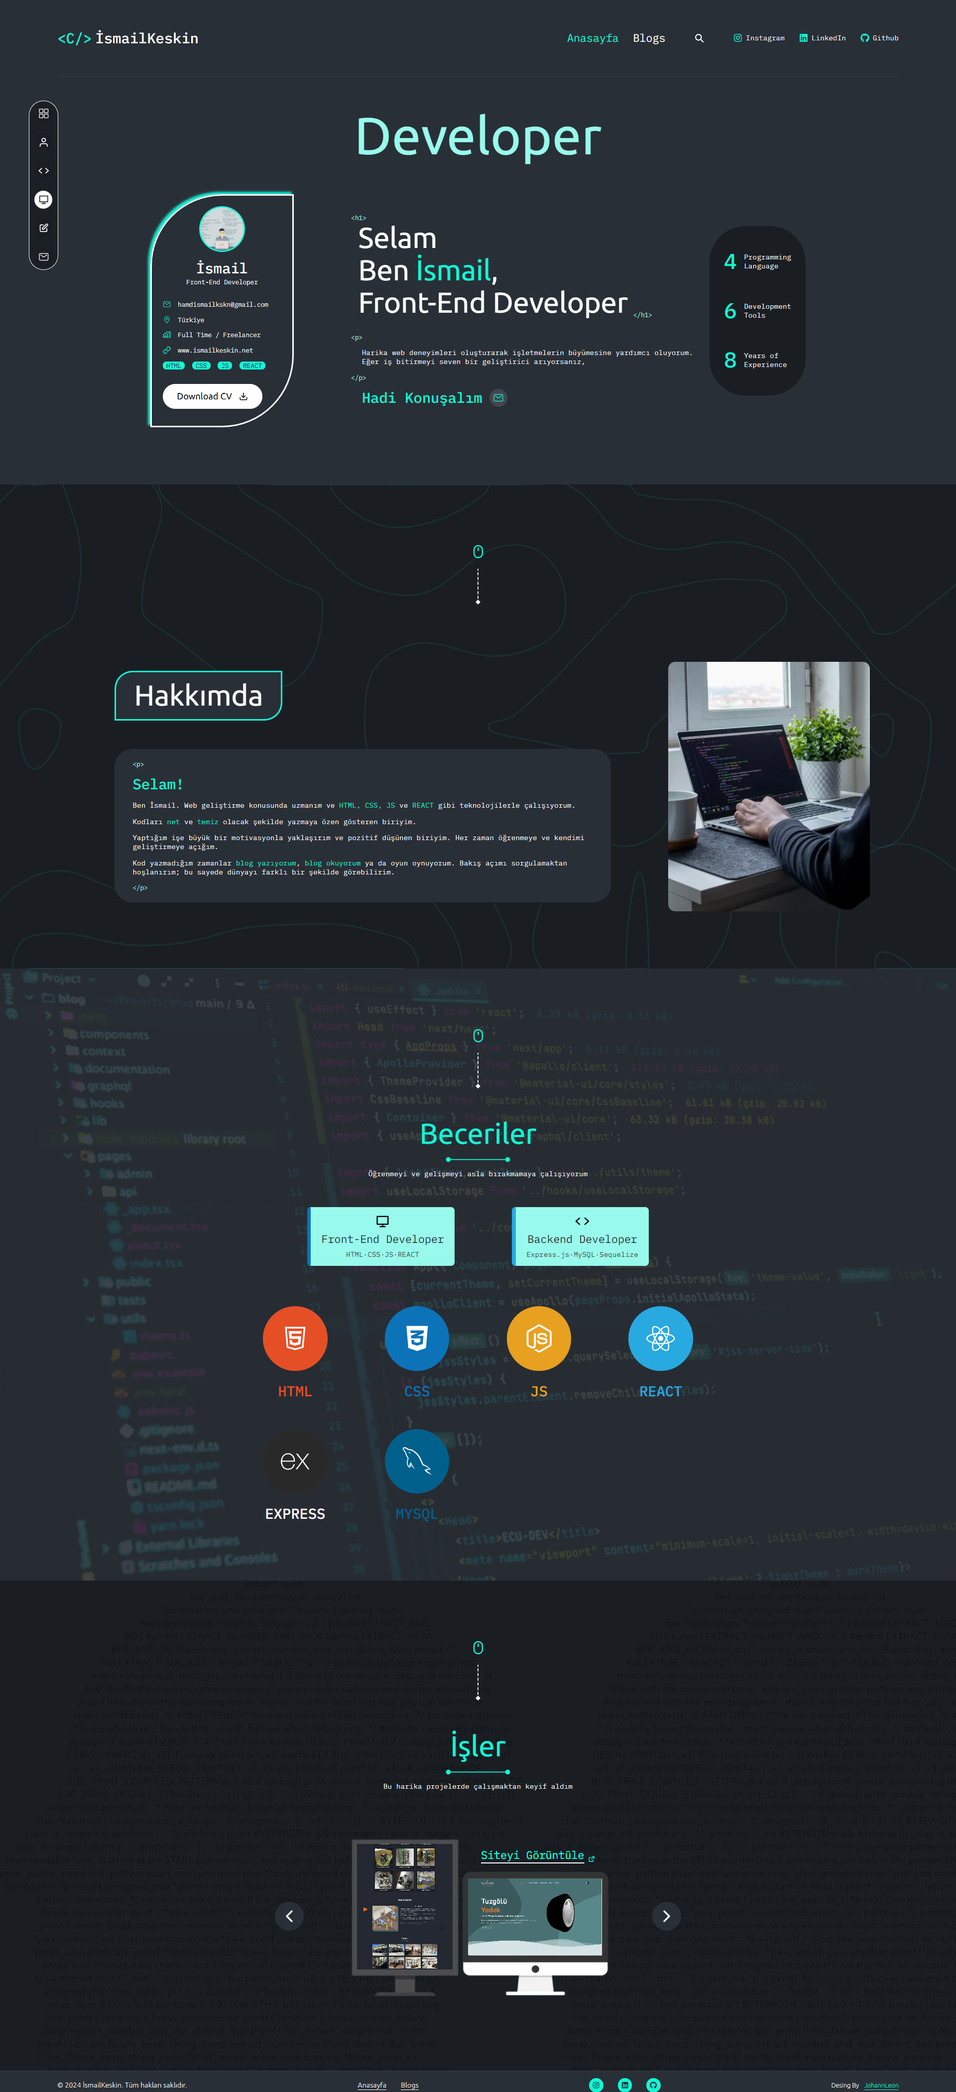
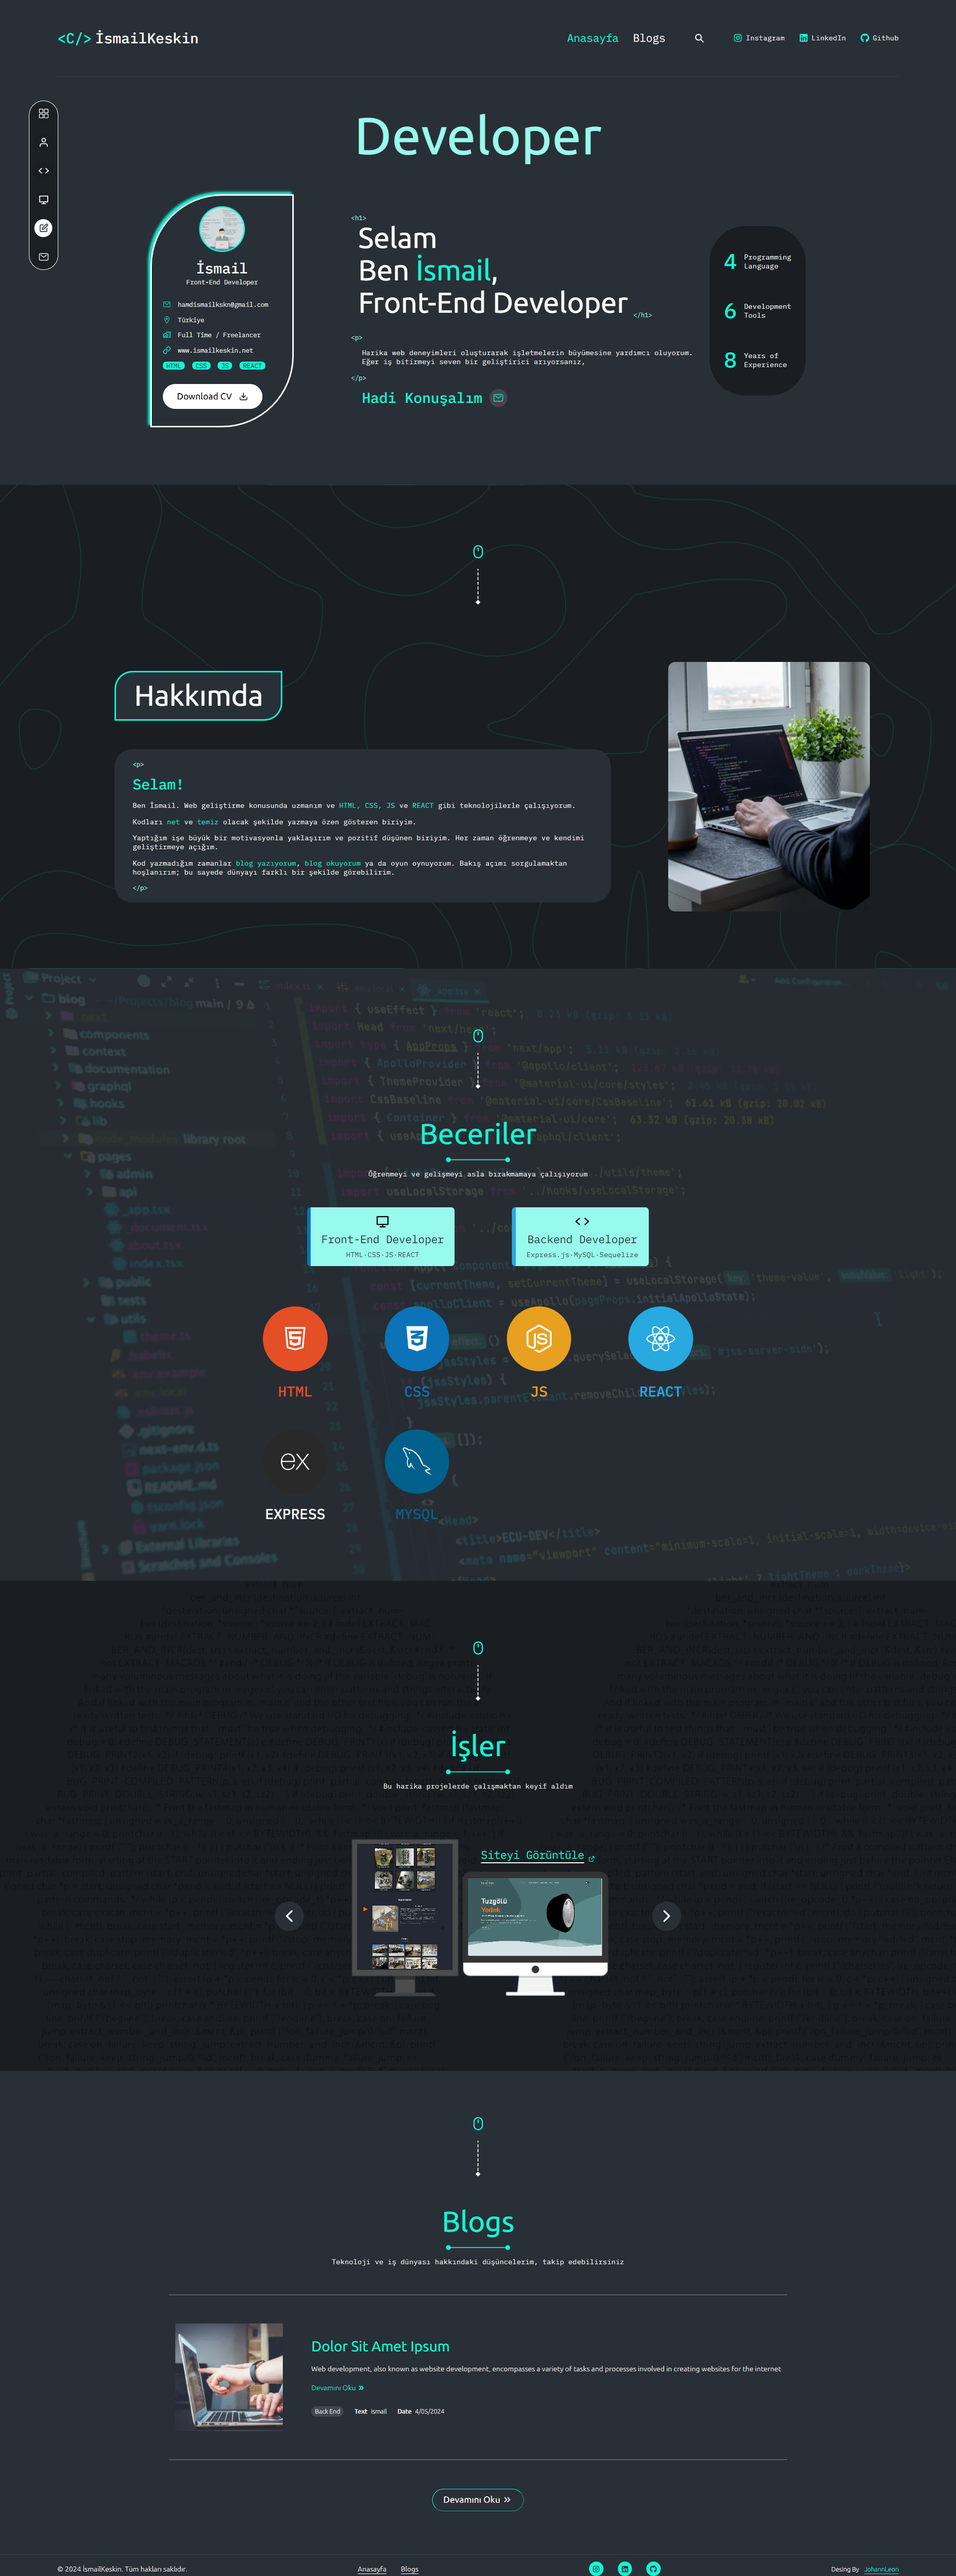
frontend: contact.tsx tasarımı yapıldı.

diff --git a/frontend/src/components/contact/index.tsx b/frontend/src/components/contact/index.tsx
@@ -1,0 +1,79 @@
+"use client";
+import React from "react";
+import ModuleTitle from "../moduleTitle";
+import SolidButton from "../buttons/SolidButton";
+
+const Contact = () => {
+  const sendMessage = () => {
+    console.log("send message");
+  };
+
+  return (
+    <section id="iletisim" className="w-full h-min bg-BG2">
+      <main className="flex flex-col items-center gap-16 lg:gap-[102px] px-6 py-16 md:py-8 xl:py-16">
+        <ModuleTitle
+          isHome={true}
+          title="İletişim"
+          description="Şu anda freelance çalışmaya uygunum"
+        />
+        <div className="w-full flex flex-col items-center gap-16">
+          <div
+            id="formTitle"
+            className="border-4 border-solid border-Brand1 rounded-tl-[40px] rounded-br-[40px] px-10 py-4 text-Brand1 w-min h-min"
+          >
+            <h2 className="menu-m lg:logo-m whitespace-nowrap">Bana Mesaj Gönder</h2>
+          </div>
+          <form className="w-full flex flex-col items-center px-6 md:px-16 xl:px-[400px] gap-16">
+            <div className="w-full grid grid-cols-1 grid-rows-3 lg:grid-cols-2 lg:grid-rows-2 gap-16 lx:gap-x-32 lg:gap-y-16">
+              <div className="flex flex-col gap-6">
+                <label htmlFor="name" className="text-Brand1 para-u">
+                  Adınız *
+                </label>
+                <input
+                  type="text"
+                  name="name"
+                  id="name"
+                  className="border-t-0 border-l-0 border-r-0 border-b border-solid border-Brand2 outline-none py-2 bg-[#ffffff00] text-White para-u placeholder-White"
+                  placeholder="Adınızı Giriniz"
+                />
+              </div>
+              <div className="flex flex-col gap-6">
+                <label htmlFor="email" className="text-Brand1 para-u">
+                  Email Adresiniz *
+                </label>
+                <input
+                  type="text"
+                  name="email"
+                  id="email"
+                  className="border-t-0 border-l-0 border-r-0 border-b border-solid border-Brand2 outline-none py-2 bg-[#ffffff00] text-Whit para-u placeholder-White"
+                  placeholder="Email Adresinizi Giriniz"
+                />
+              </div>
+              <div className="flex flex-col gap-6">
+                <label htmlFor="message" className="text-Brand1 para-u">
+                  Mesajınız *
+                </label>
+                <input
+                  type="text"
+                  name="message"
+                  id="message"
+                  className="border-t-0 border-l-0 border-r-0 border-b border-solid border-Brand2 outline-none py-2 bg-[#ffffff00] text-White para-u placeholder-White"
+                  placeholder="Mesajınızı Giriniz"
+                />
+              </div>
+            </div>
+            <SolidButton
+              bgColor="bg-Brand1"
+              border={false}
+              textColor="text-BG1"
+              buttonText="Mesaj Gönder"
+              buttonFc={sendMessage}
+            />
+          </form>
+        </div>
+      </main>
+    </section>
+  );
+};
+
+export default Contact;

diff --git a/frontend/src/components/buttons/SolidButton.tsx b/frontend/src/components/buttons/SolidButton.tsx
@@ -1,6 +1,6 @@
 "use client";
 import React from "react";
-import { MdKeyboardDoubleArrowRight } from "react-icons/md";
+import { TbSend } from "react-icons/tb";
 
 type Props = {
   bgColor: "bg-Brand1" | "bg-White" | "bg-BG1";
@@ -18,11 +18,11 @@ const SolidButton: React.FC<Props> = ({ bgColor, textColor, border, buttonText, 
   return (
     <button
       onClick={handleClick}
-      className={`flex items-center gap-1 py-3 px-6 rounded-[32px] button-u cursor-pointer hover:opacity-80 transition-opacity ${bgColor} ${textColor} ${
+      className={`flex items-center gap-3 py-3 px-6 rounded-[32px] button-u cursor-pointer hover:opacity-80 transition-opacity ${bgColor} ${textColor} ${
         border ? "border-2 border-Brand1" : "border-none"
       }`}
     >
-      {buttonText} <MdKeyboardDoubleArrowRight className="w-[24px] h-[24px]" />
+      {buttonText} <TbSend className="w-[24px] h-[24px]" />
     </button>
   );
 };

diff --git a/frontend/src/components/footer/index.tsx b/frontend/src/components/footer/index.tsx
@@ -6,7 +6,7 @@ import FooterMedia from "./FooterMedia";
 
 const Footer = () => {
   return (
-    <footer className="w-full flex-col flex items-center gap-6 lg:gap-4 text-White">
+    <footer className="w-full flex-col flex items-center gap-6 lg:gap-4 text-White pb-8 lg:pb-4">
       <div className="w-full h-[1px] bg-Grey/70"></div>
       <main className="w-full px-6 lg:px-32 flex items-center para-u gap-6 lg:gap-0 flex-col lg:flex-row justify-start lg:justify-between">
         <div className="order-2 lg:order-1 flex-grow flex items-center justify-between flex-col sm:flex-row gap-6 sm:gap-16 lg:gap-0">

diff --git a/frontend/src/containers/homeContainer/index.tsx b/frontend/src/containers/homeContainer/index.tsx
@@ -11,6 +11,7 @@ import Content from "@/components/blog/blogColumn/Content";
 import type { Blog } from "@/components/blog/blogColumn/Content";
 import HomeBlog from "@/components/homeBlog";
 import ModuleTitle from "@/components/moduleTitle";
+import Contact from "@/components/contact";
 
 const HomeContainer = async ({ blog }: { blog: Blog }) => {
   return (
@@ -40,6 +41,7 @@ const HomeContainer = async ({ blog }: { blog: Blog }) => {
           />
         </BlogColumn>
       </HomeBlog>
+      <Contact />
     </>
   );
 };

diff --git a/frontend/src/components/hero/index.tsx b/frontend/src/components/hero/index.tsx
@@ -5,7 +5,7 @@ const Hero = ({ children }: { children: React.ReactNode }) => {
   return (
     <section
       id="anasayfa"
-      className="w-full h-min flex flex-col items-center gap-16 px-0 lg:px-32 pb-16 pt-16 md:pb-32"
+      className="w-full h-min flex flex-col items-center gap-16 px-0 lg:px-32 pt-16 pb-16 md:pb-32"
     >
       <h1 className="bg-text-u text-Brand2 hidden md:block">Developer</h1>
       <main className="flex items-center flex-col xl:flex-row gap-16 sm:gap-32 px-6 md:px-16 xl:px-32">

diff --git a/frontend/src/components/contact/ContactTitle.tsx b/frontend/src/components/contact/ContactTitle.tsx
@@ -1,0 +1,14 @@
+import React from "react";
+
+const ContactTitle = () => {
+  return (
+    <div
+      id="formTitle"
+      className="border-4 border-solid border-Brand1 rounded-tl-[40px] rounded-br-[40px] px-10 py-4 text-Brand1 w-min h-min"
+    >
+      <h2 className="logo-m whitespace-nowrap">Bana Mesaj Gönder</h2>
+    </div>
+  );
+};
+
+export default ContactTitle;

diff --git a/frontend/src/components/about/AboutTitle.tsx b/frontend/src/components/about/AboutTitle.tsx
@@ -6,7 +6,7 @@ const AboutTitle = () => {
       id="aboutTitle"
       className="border-4 border-solid border-Brand1 rounded-tl-[40px] rounded-br-[40px] px-10 py-4 text-White w-min h-min bg-BG1"
     >
-      <h1 className="h2-u sm:h1-u">Hakkımda</h1>
+      <h2 className="h2-u sm:h1-u">Hakkımda</h2>
     </div>
   );
 };
